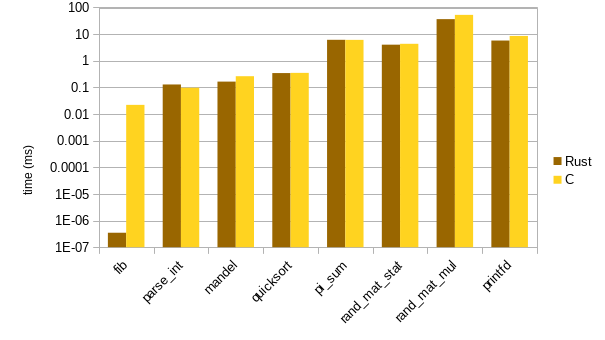
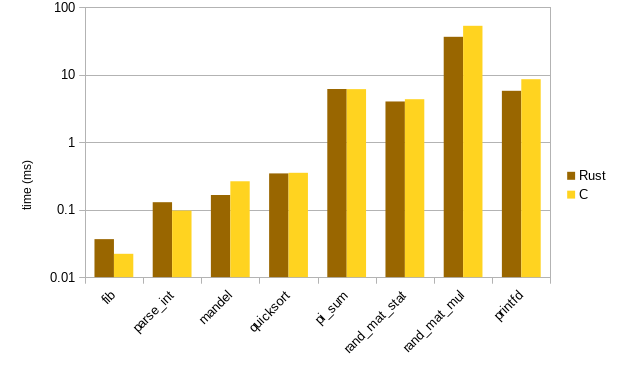
Fix overly eager optimization in fib

diff --git a/src/main.rs b/src/main.rs
@@ -36,7 +36,7 @@ fn fib(n: i32) -> i32 {
     if n < 2 {
         n
     } else {
-        fib(n - 1) + fib(n - 2)
+        fib(black_box(n - 1)) + fib(black_box(n - 2))
     }
 }
 
@@ -258,7 +258,7 @@ fn measure_best<F: FnMut()>(niters: u32, mut op: F) -> Duration {
         .map(move |_| {
             let t = Instant::now();
             op();
-            Instant::now() - t
+            t.elapsed()
         }).min().unwrap()
 }
 
@@ -272,8 +272,7 @@ fn main() {
     let fibarg = black_box(20);
     let tmin = measure_best(NITER, || {
         for _ in 0..1000 {
-            f = f.wrapping_add(
-                black_box(fib(fibarg)));
+            f = f.wrapping_add(fib(fibarg));
         }
     });
     print_perf("fib", to_float(tmin) / 1000.0);
